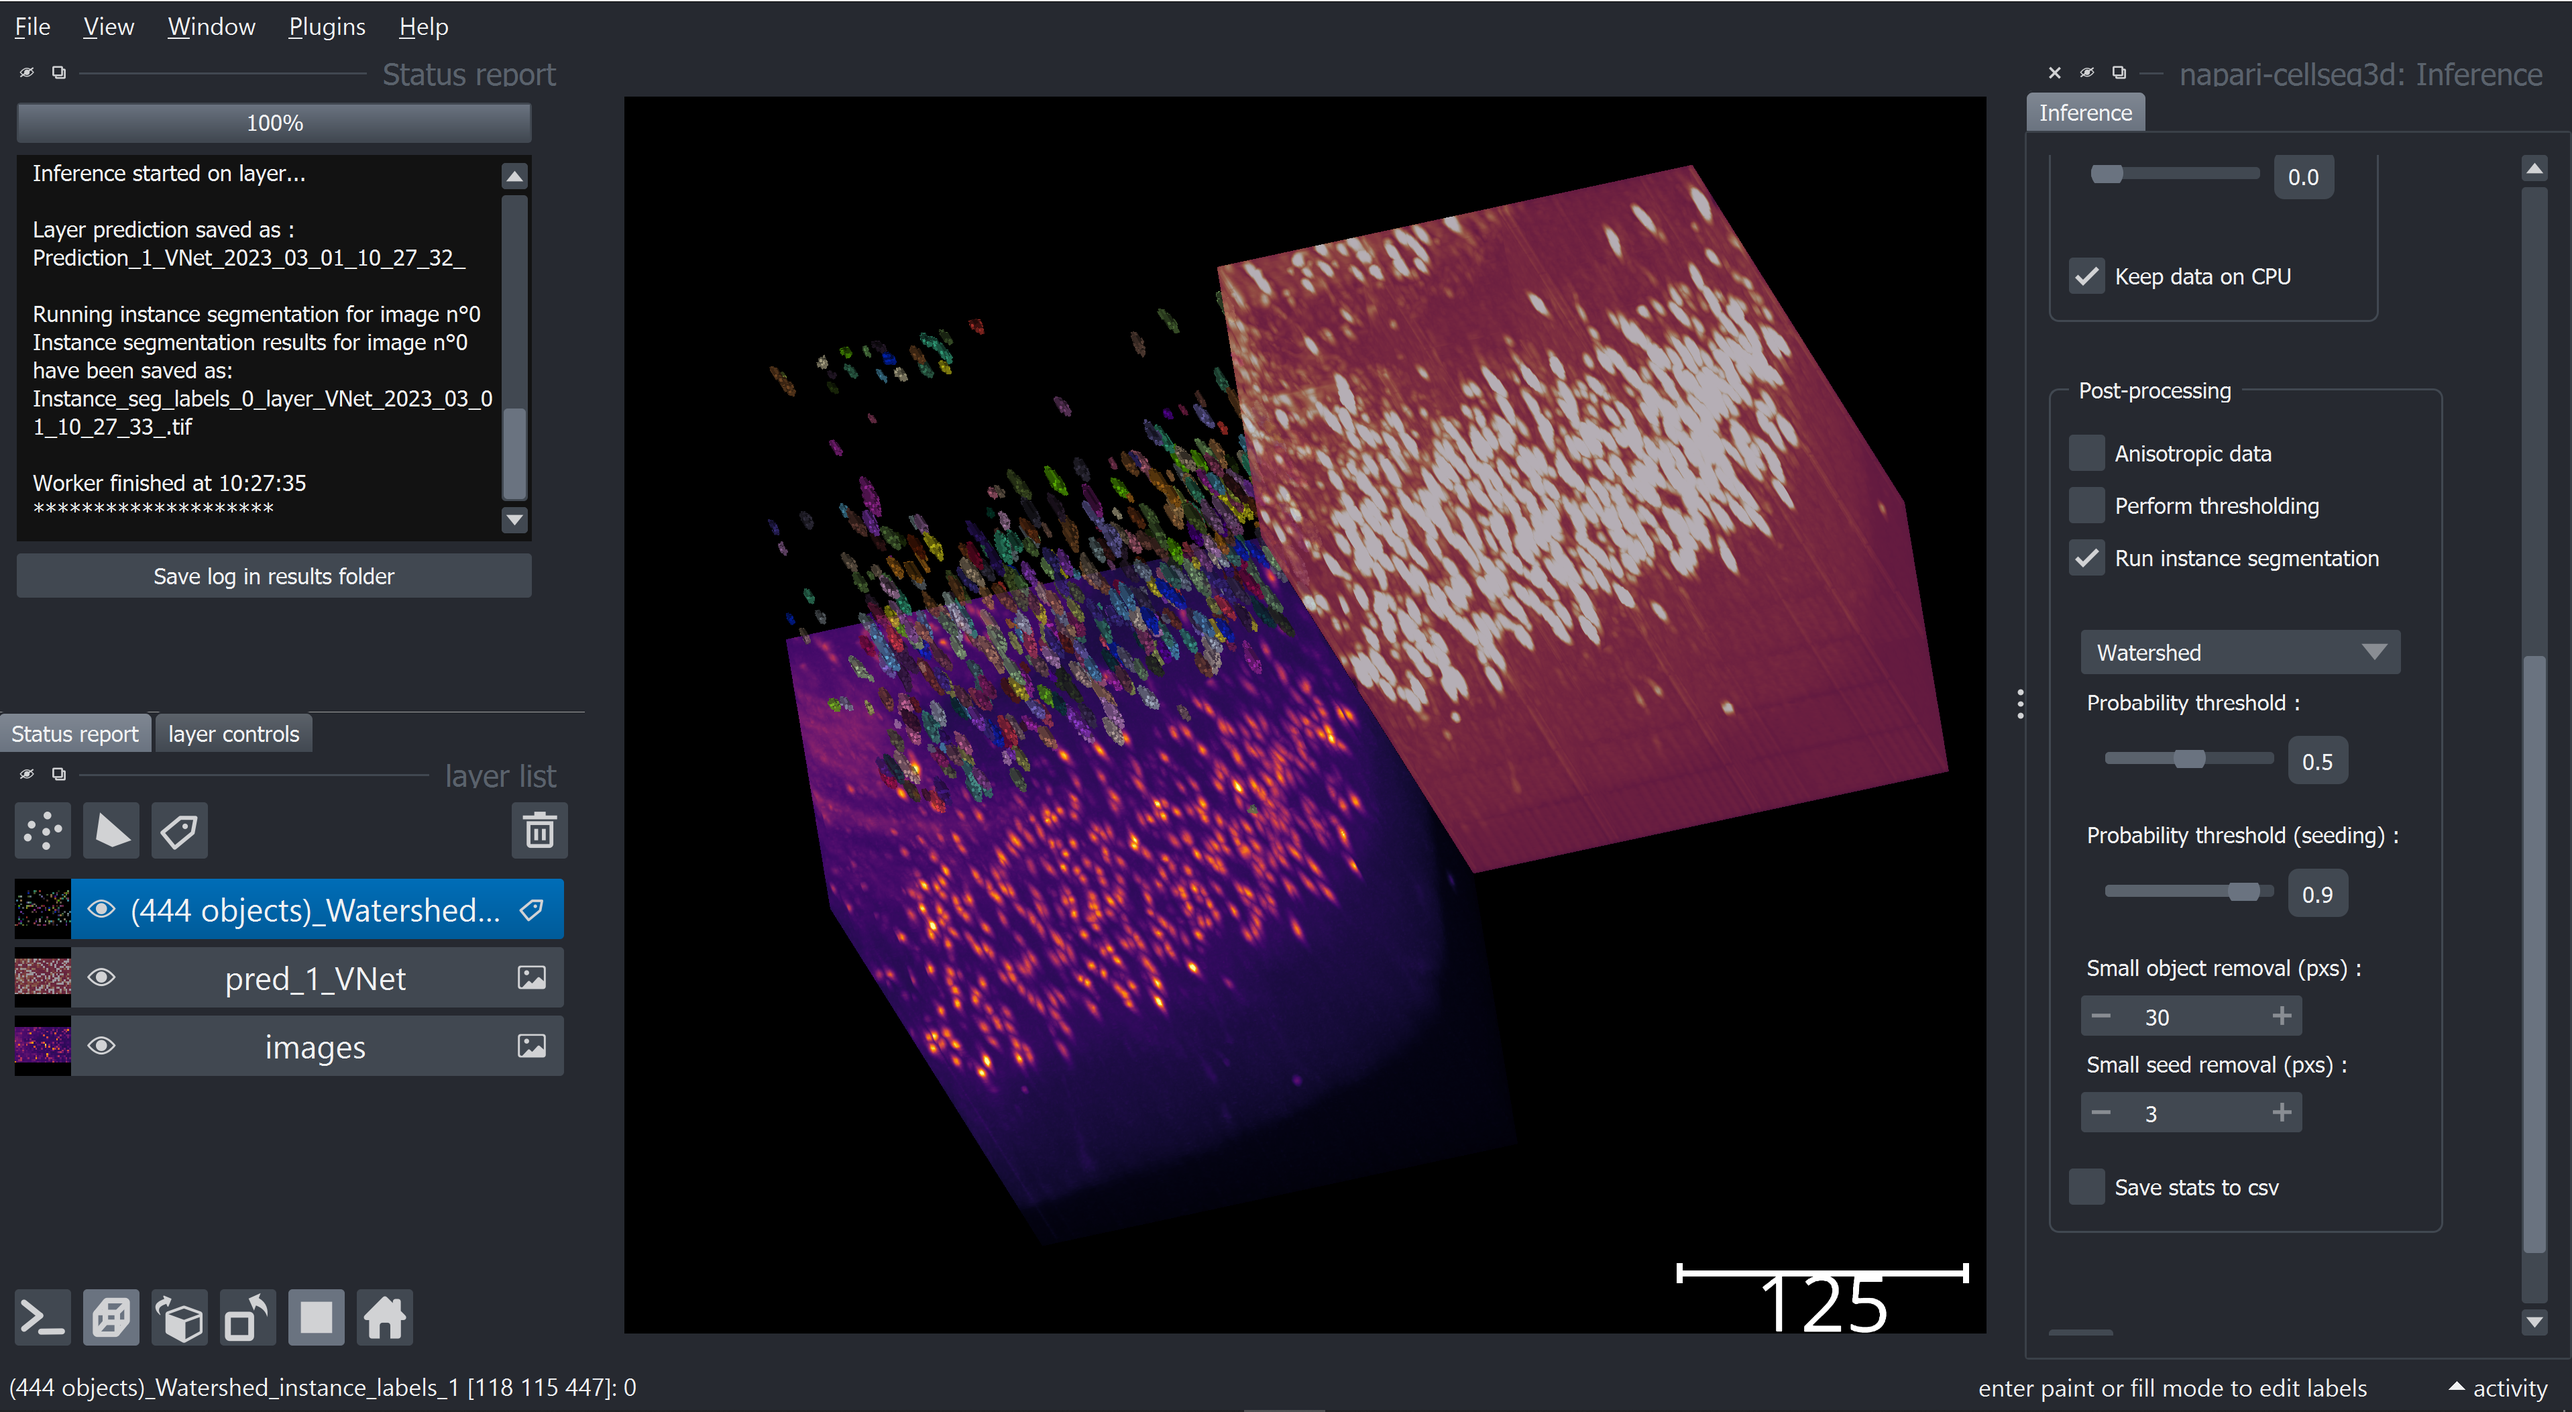
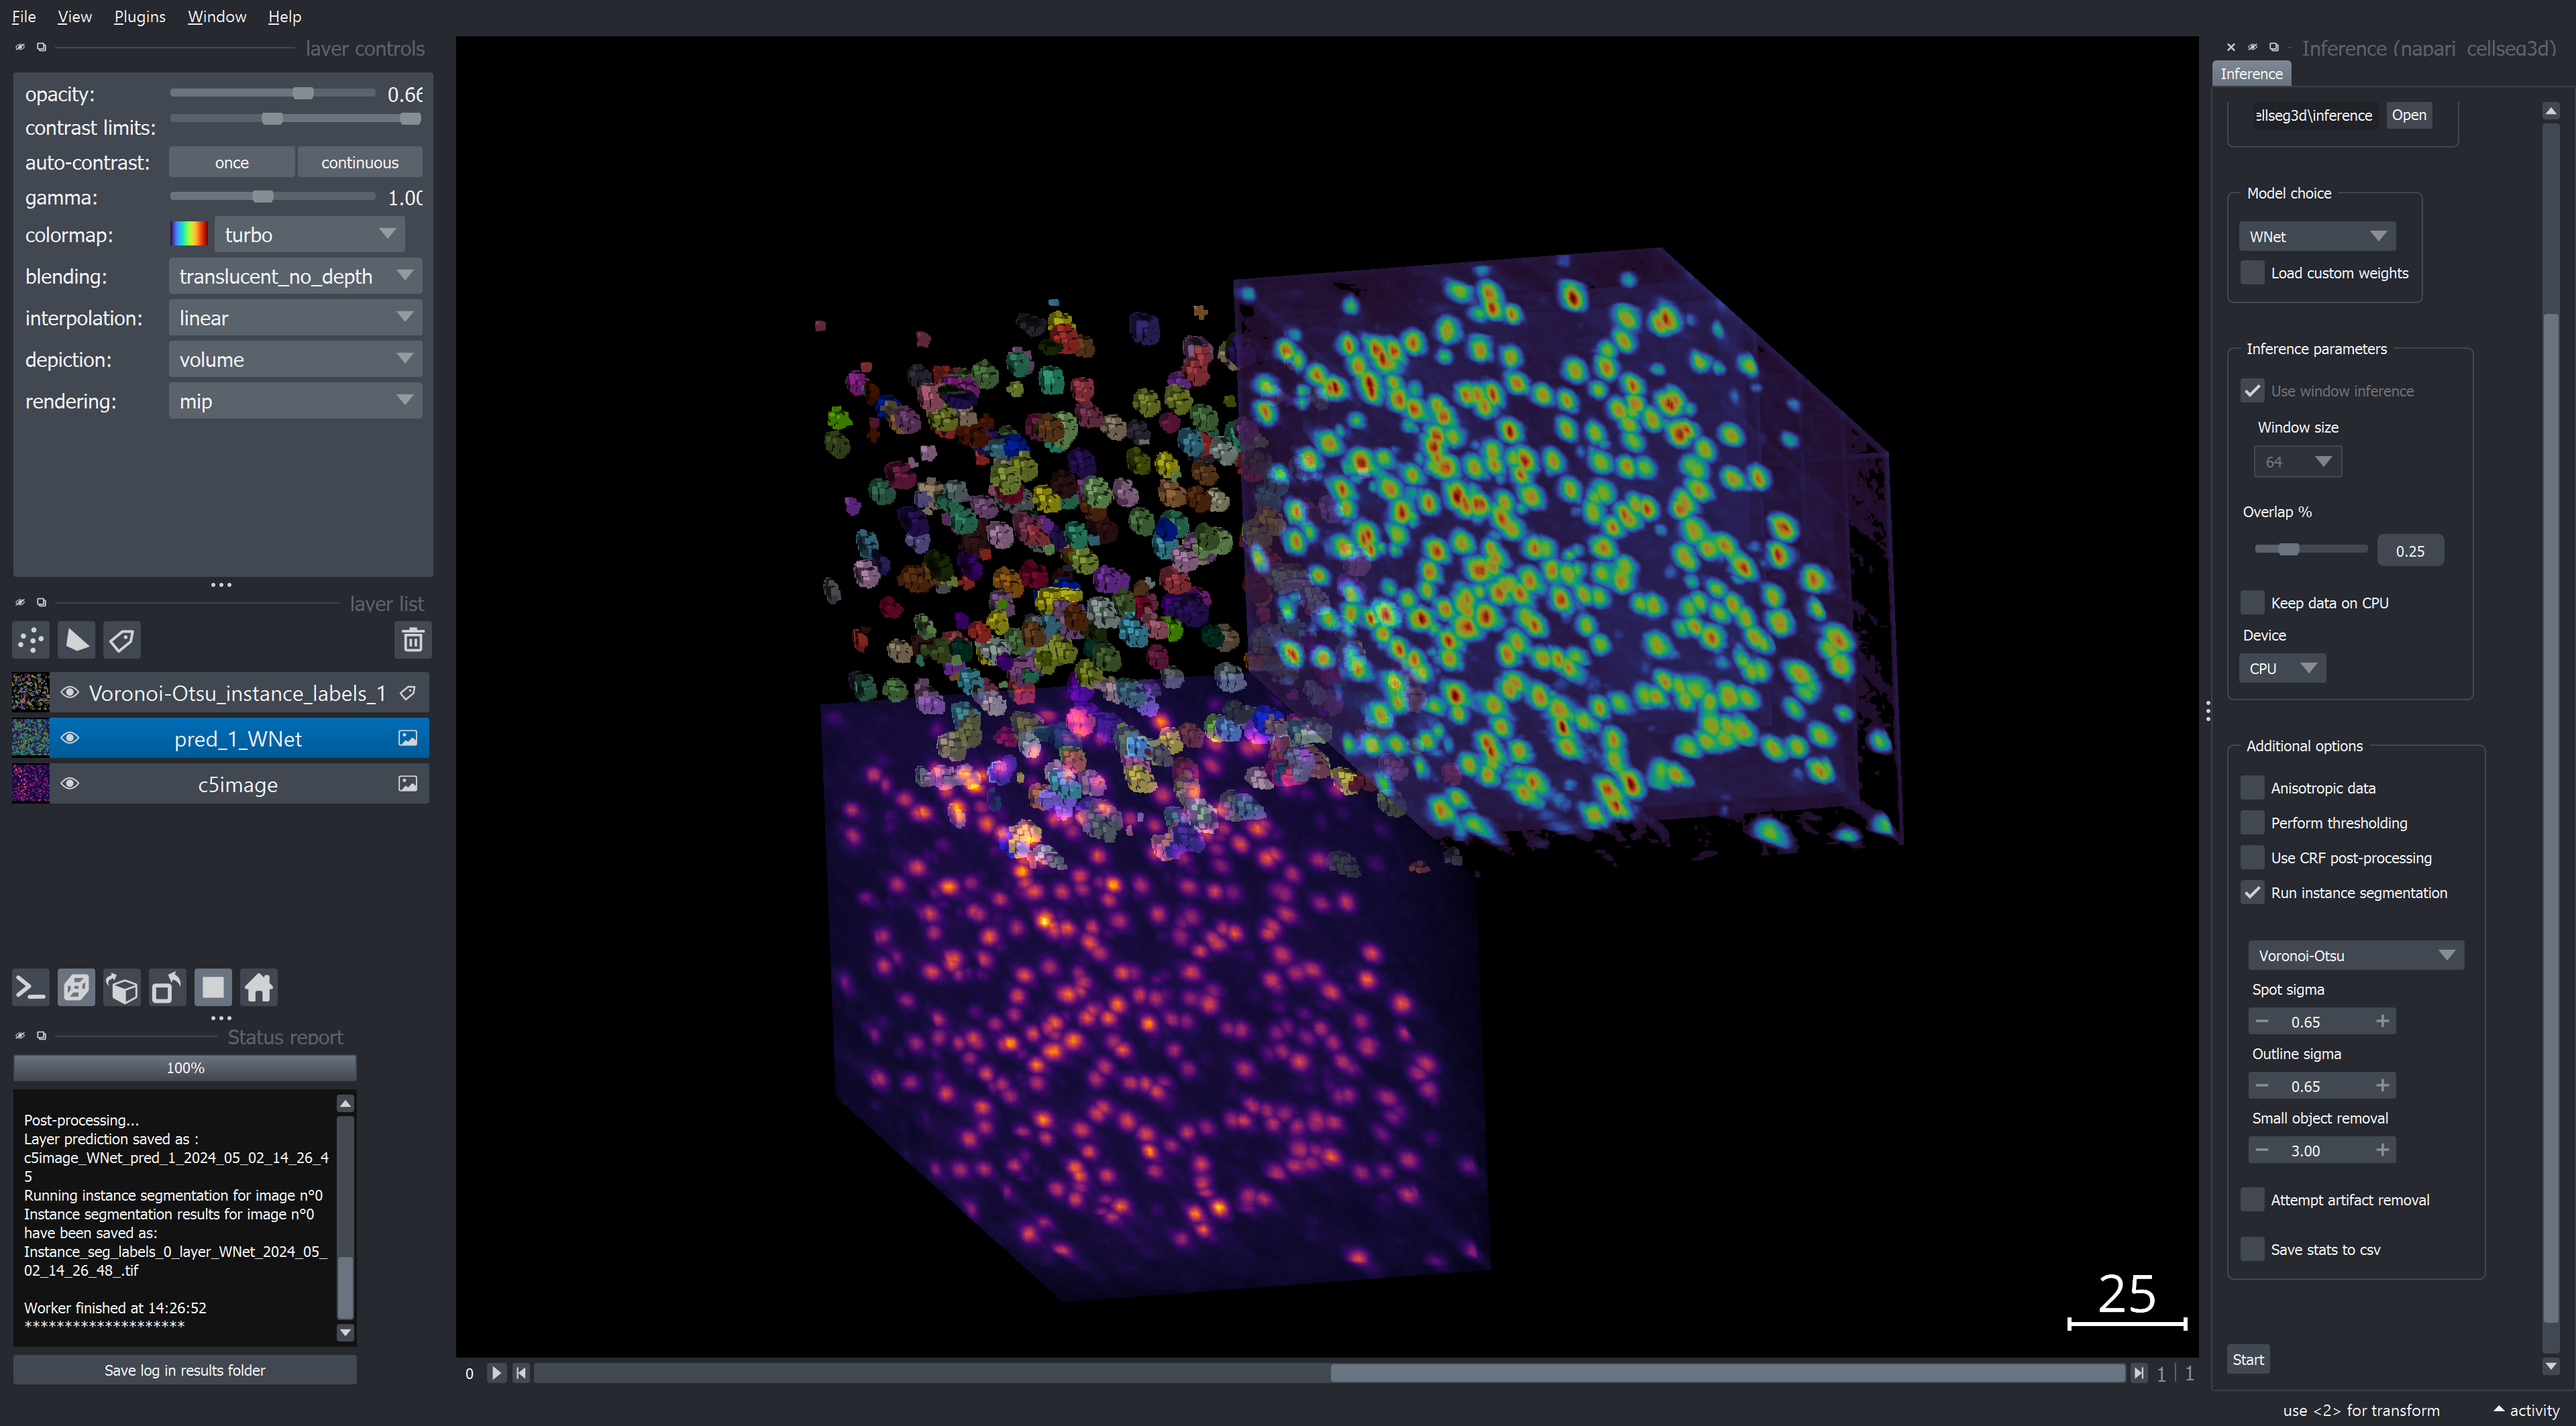
Small inference docs update (#69)
* Add better inference screenshot

* Update inference_module_guide.rst

diff --git a/docs/source/guides/inference_module_guide.rst b/docs/source/guides/inference_module_guide.rst
@@ -145,7 +145,7 @@ Simply load the csv file in the notebook and use the provided functions to plot 
 Unsupervised model - WNet3D
 --------------------------------
 
-| The `WNet3D model` is a fully unsupervised model used to segment images without any labels.
+| The `WNet3D model` is a fully self-supervised model used to segment images without any labels.
 | It functions similarly to the above models, with a few notable differences.
 
 .. _WNet3D model: https://arxiv.org/abs/1711.08506
@@ -159,10 +159,16 @@ For the best inference performance, the model should be retrained on images of t
 Please see :ref:`training_wnet` for more details on how to train your own model.
 
 .. hint::
-  | WNet3D, as an unsupervised model, may not always output the background class in the same dimension.
-  | This might cause the result from inference to appear densely populated.
+  | WNet3D, as an unsupervised model, may not always output the background and foreground class in the same dimension, as this depends on initial conditions.
+  | This might cause the result from inference to appear densely populated or empty.
   | The plugin will automatically attempt to show the foreground class, but this might not always succeed.
   | If the displayed output seems dominated by the background, you can manually adjust the visible class. To do this, **use the slider positioned at the bottom of the napari window**.
+
+.. figure:: ../images/inference_results_example.png
+    :alt: An example of inference with WNet3D on a 3D volume
+    :align: center
+
+    Example of inference with WNet3D on a 3D volume
 
 Source code
 --------------------------------
